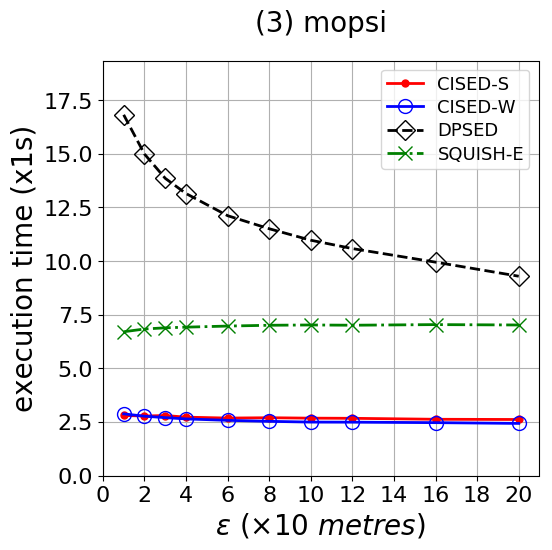
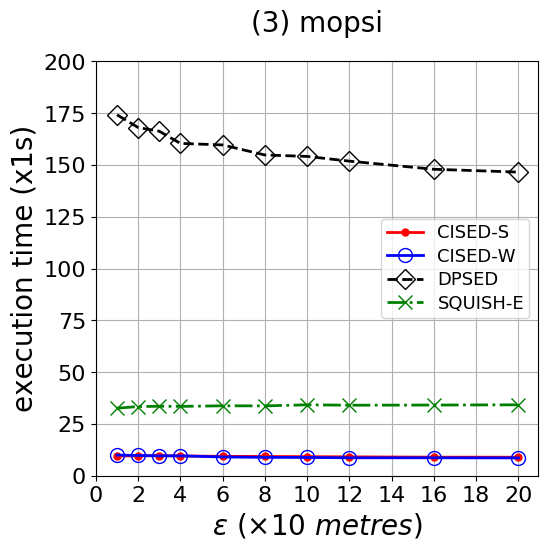
M    Figures/Exp-time-epsilon-mopsi.png M    sec-exp.tex

Changed region(s): [[0.0617, 0.1236, 0.9873, 0.9891], [0.4628, 0.0, 0.7096, 0.0618], [0.0926, 0.0927, 0.1543, 0.1236]]

diff --git a/traj_conei3d/sec-exp.tex b/traj_conei3d/sec-exp.tex
@@ -427,7 +427,7 @@ polygon intersections. For all $m$, the execution time of algorithms \cpia and
 and ($90.5\%$, $92.5\%$, $89.5\%$, $90.5\%$)} of the entire compression  time on {datasets}
 (\sercar, \geolife, \mopsi,  \pricar), respectively.
 
-\ni(2) \rpia runs faster than \cpia on all datasets and for all $m$. The execution time of algorithms \cist-\rpia and \cista-\rpia is one average $81.3\%$ their counterparts with \cpia.
+\ni(2) \rpia runs faster than \cpia on all datasets and for all $m$. The execution time of algorithms \cist-\rpia and \cista-\rpia is one average $83.76\%$ their counterparts with \cpia.
 
 \ni(3) When varying $m$, the execution time of algorithms \cist-\rpia, \cist-\cpia, \cista-\rpia and \cista-\cpia increases approximately linearly with the increase of $m$ on all the datasets.
 
@@ -450,8 +450,8 @@ The running time of \dps decreases a little bit with the increase of $\epsilon$,
 
 
 \ni(2) Algorithms \cist and \cista are obviously faster than \dps and \squishe for all cases.
-They are on average ($14.21$, $18.19$, $4.47$, $9.98$) times faster than \dps,
-and ($2.84$, $3.45$, $2.65$, $2.86$) times faster than \squishe on
+They are on average ($14.21$, $18.19$, $17.06$, $9.98$) times faster than \dps,
+and ($2.84$, $3.45$, $3.69$, $2.86$) times faster than \squishe on
 \textcolor{blue}{datasets} ( \sercar, {\geolife},\mopsi, \pricar), respectively.
 
 
@@ -502,7 +502,7 @@ and ($109.1\%$, $109.7\%$, $113.5\%$, $109.2\%$), {($81.4\%$, $82.3\%$, $76.5\%$
 
 
 \sstab\emph{(5) Running time}. \textcolor{blue}{Algorithm \cisto is the slowest while algorithms \cist and \cista are the fast.} Algorithms \cist and \cista are on average
-($14.21$, $18.19$, $4.47$, $9.98$) and ($2.84$, $3.45$, $2.65$, $2.86$) times faster than algorithms \dps and \squishe on {datasets} (\sercar, {\geolife},\mopsi,\pricar), respectively.
+($14.21$, $18.19$, $17.06$, $9.98$) and ($2.84$, $3.45$, $3.69$, $2.86$) times faster than algorithms \dps and \squishe on {datasets} (\sercar, {\geolife},\mopsi,\pricar), respectively.
 The efficiency advantage of algorithms \cist and \cista also increases  with the increase of the trajectory size.
 
 
